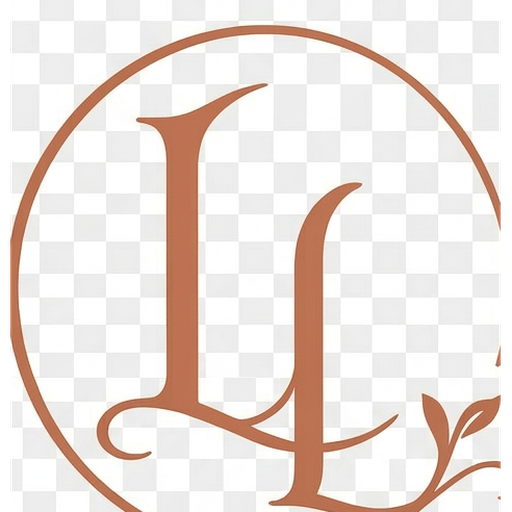
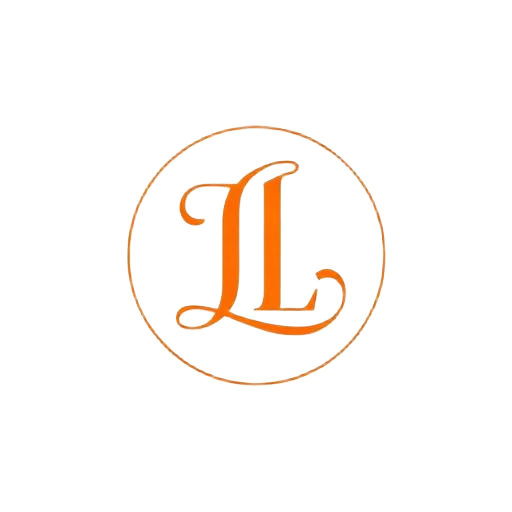
Reverted to commit 7ab79f2365d6e86d7e1333e1fed68d4e160582f1

diff --git a/src/components/site/Header.tsx b/src/components/site/Header.tsx
@@ -1,6 +1,6 @@
 import { useEffect, useState } from "react";
 import { Menu, X } from "lucide-react";
-import logoFull from "@/assets/ll-logo-full.png";
+import monogram from "@/assets/ll-monogram.png";
 
 const links = [
   { href: "#inicio", label: "Início" },
@@ -39,8 +39,11 @@ export function Header() {
   return (
     <header className="fixed inset-x-0 top-0 z-50 bg-background/95 backdrop-blur-md border-b border-foreground/5">
       <div className="mx-auto flex h-24 max-w-[1440px] items-center px-6 md:px-10 lg:px-16 relative">
-        <a href="#inicio" className="flex items-center group" aria-label="Lorena LLira — Criação Musical">
-          <img src={logoFull} alt="Lorena LLira — Criação Musical" className="h-16 md:h-20 w-auto shrink-0" />
+        <a href="#inicio" className="flex items-center gap-3 group">
+          <img src={monogram} alt="Lorena LLira" className="h-[4.55rem] w-[4.55rem] shrink-0" width={73} height={73} />
+          <span className="font-serif text-xl md:text-xl tracking-luxury text-foreground leading-none">
+            Lorena <span className="text-primary">LL</span>ira
+          </span>
         </a>
 
         <nav className="hidden lg:flex items-center gap-8 absolute left-1/2 -translate-x-1/2">
